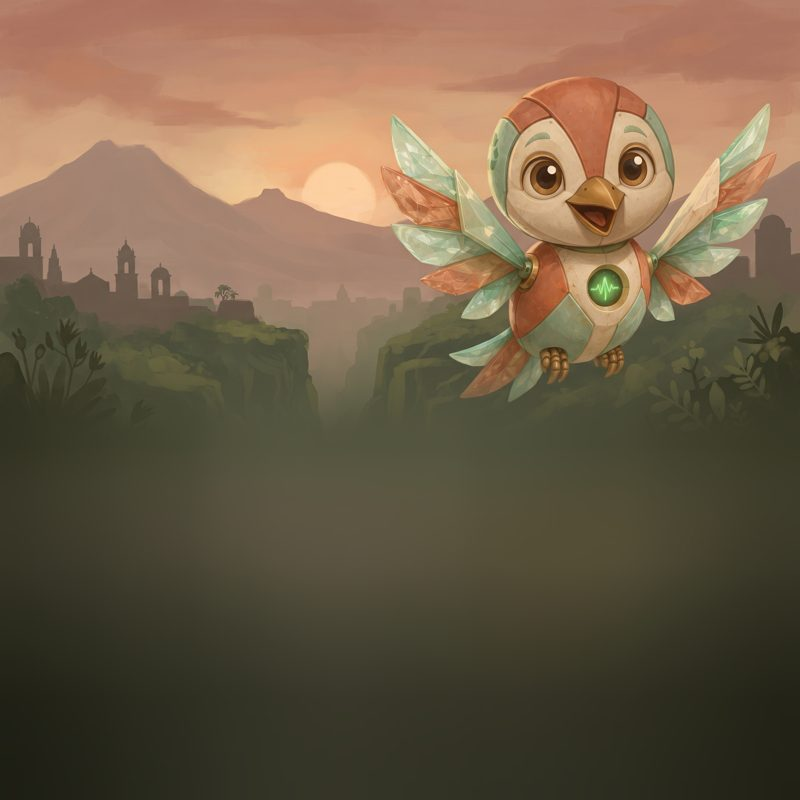
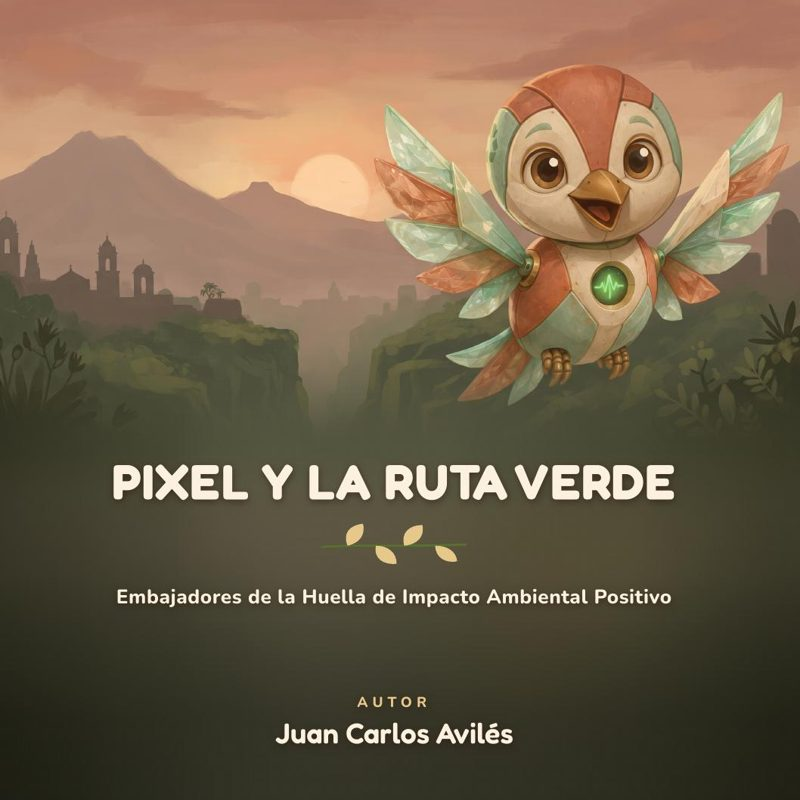
Arregla la vista en celulares y usa la portada real del libro
Agrega doctype, viewport y meta descripción para que la página se adapte a pantallas pequeñas. Reemplaza la imagen de portada por la del libro con título.

Claude-Session: https://claude.ai/code/session_01UEMsgN64AU4w56qu5NjWD4

diff --git a/index.html b/index.html
@@ -1,5 +1,16 @@
+<!doctype html>
+<html lang="es">
+<head>
+<meta charset="utf-8">
+<meta name="viewport" content="width=device-width, initial-scale=1, viewport-fit=cover">
+<meta name="description" content="Pixel y la Ruta Verde: libro infantil de Juan Carlos Avilés sobre la huella plástica de Quito. 7 retos, datos reales y 1 kg de plástico recuperado por cada libro vendido.">
+<style>
+:root{color-scheme:light;padding-top:env(safe-area-inset-top,0px);padding-bottom:env(safe-area-inset-bottom,0px)}
+html{-webkit-text-size-adjust:100%}
+img{max-width:100%}
+[hidden]{display:none!important}
+</style>
 <title>Pixel y la Ruta Verde</title>
-<meta name="claude:viewport-fit-sides" content="cover">
 <link rel="stylesheet" href="https://fonts.googleapis.com/css2?family=Fredoka:wght@500;600;700&family=Nunito:wght@400;600;700;800&display=swap">
 <style>
 /* Layout: misma estructura que todoesposible.blog (nav, hero con libro, cita, bloque de impacto, compra, por qué leer, datos, meta, lista de retos, edición especial, autor, CTA final, footer) en la paleta del libro: crema, verde bosque, terracota y oliva oscuro del atardecer quiteño. */
@@ -249,7 +260,8 @@ footer p{color:#cdbf9f;font-size:14px;max-width:300px}
 @media(max-width:820px){.theme{bottom:calc(72px + env(safe-area-inset-bottom,0px))}}
 @media (prefers-reduced-motion:reduce){*{transition:none!important}.btn:hover{transform:none}}
 </style>
-
+</head>
+<body>
 <a class="skip" href="#contenido">Ir al contenido</a>
 
 <div class="nav-band">
@@ -539,3 +551,5 @@ footer p{color:#cdbf9f;font-size:14px;max-width:300px}
   });
 })();
 </script>
+</body>
+</html>
